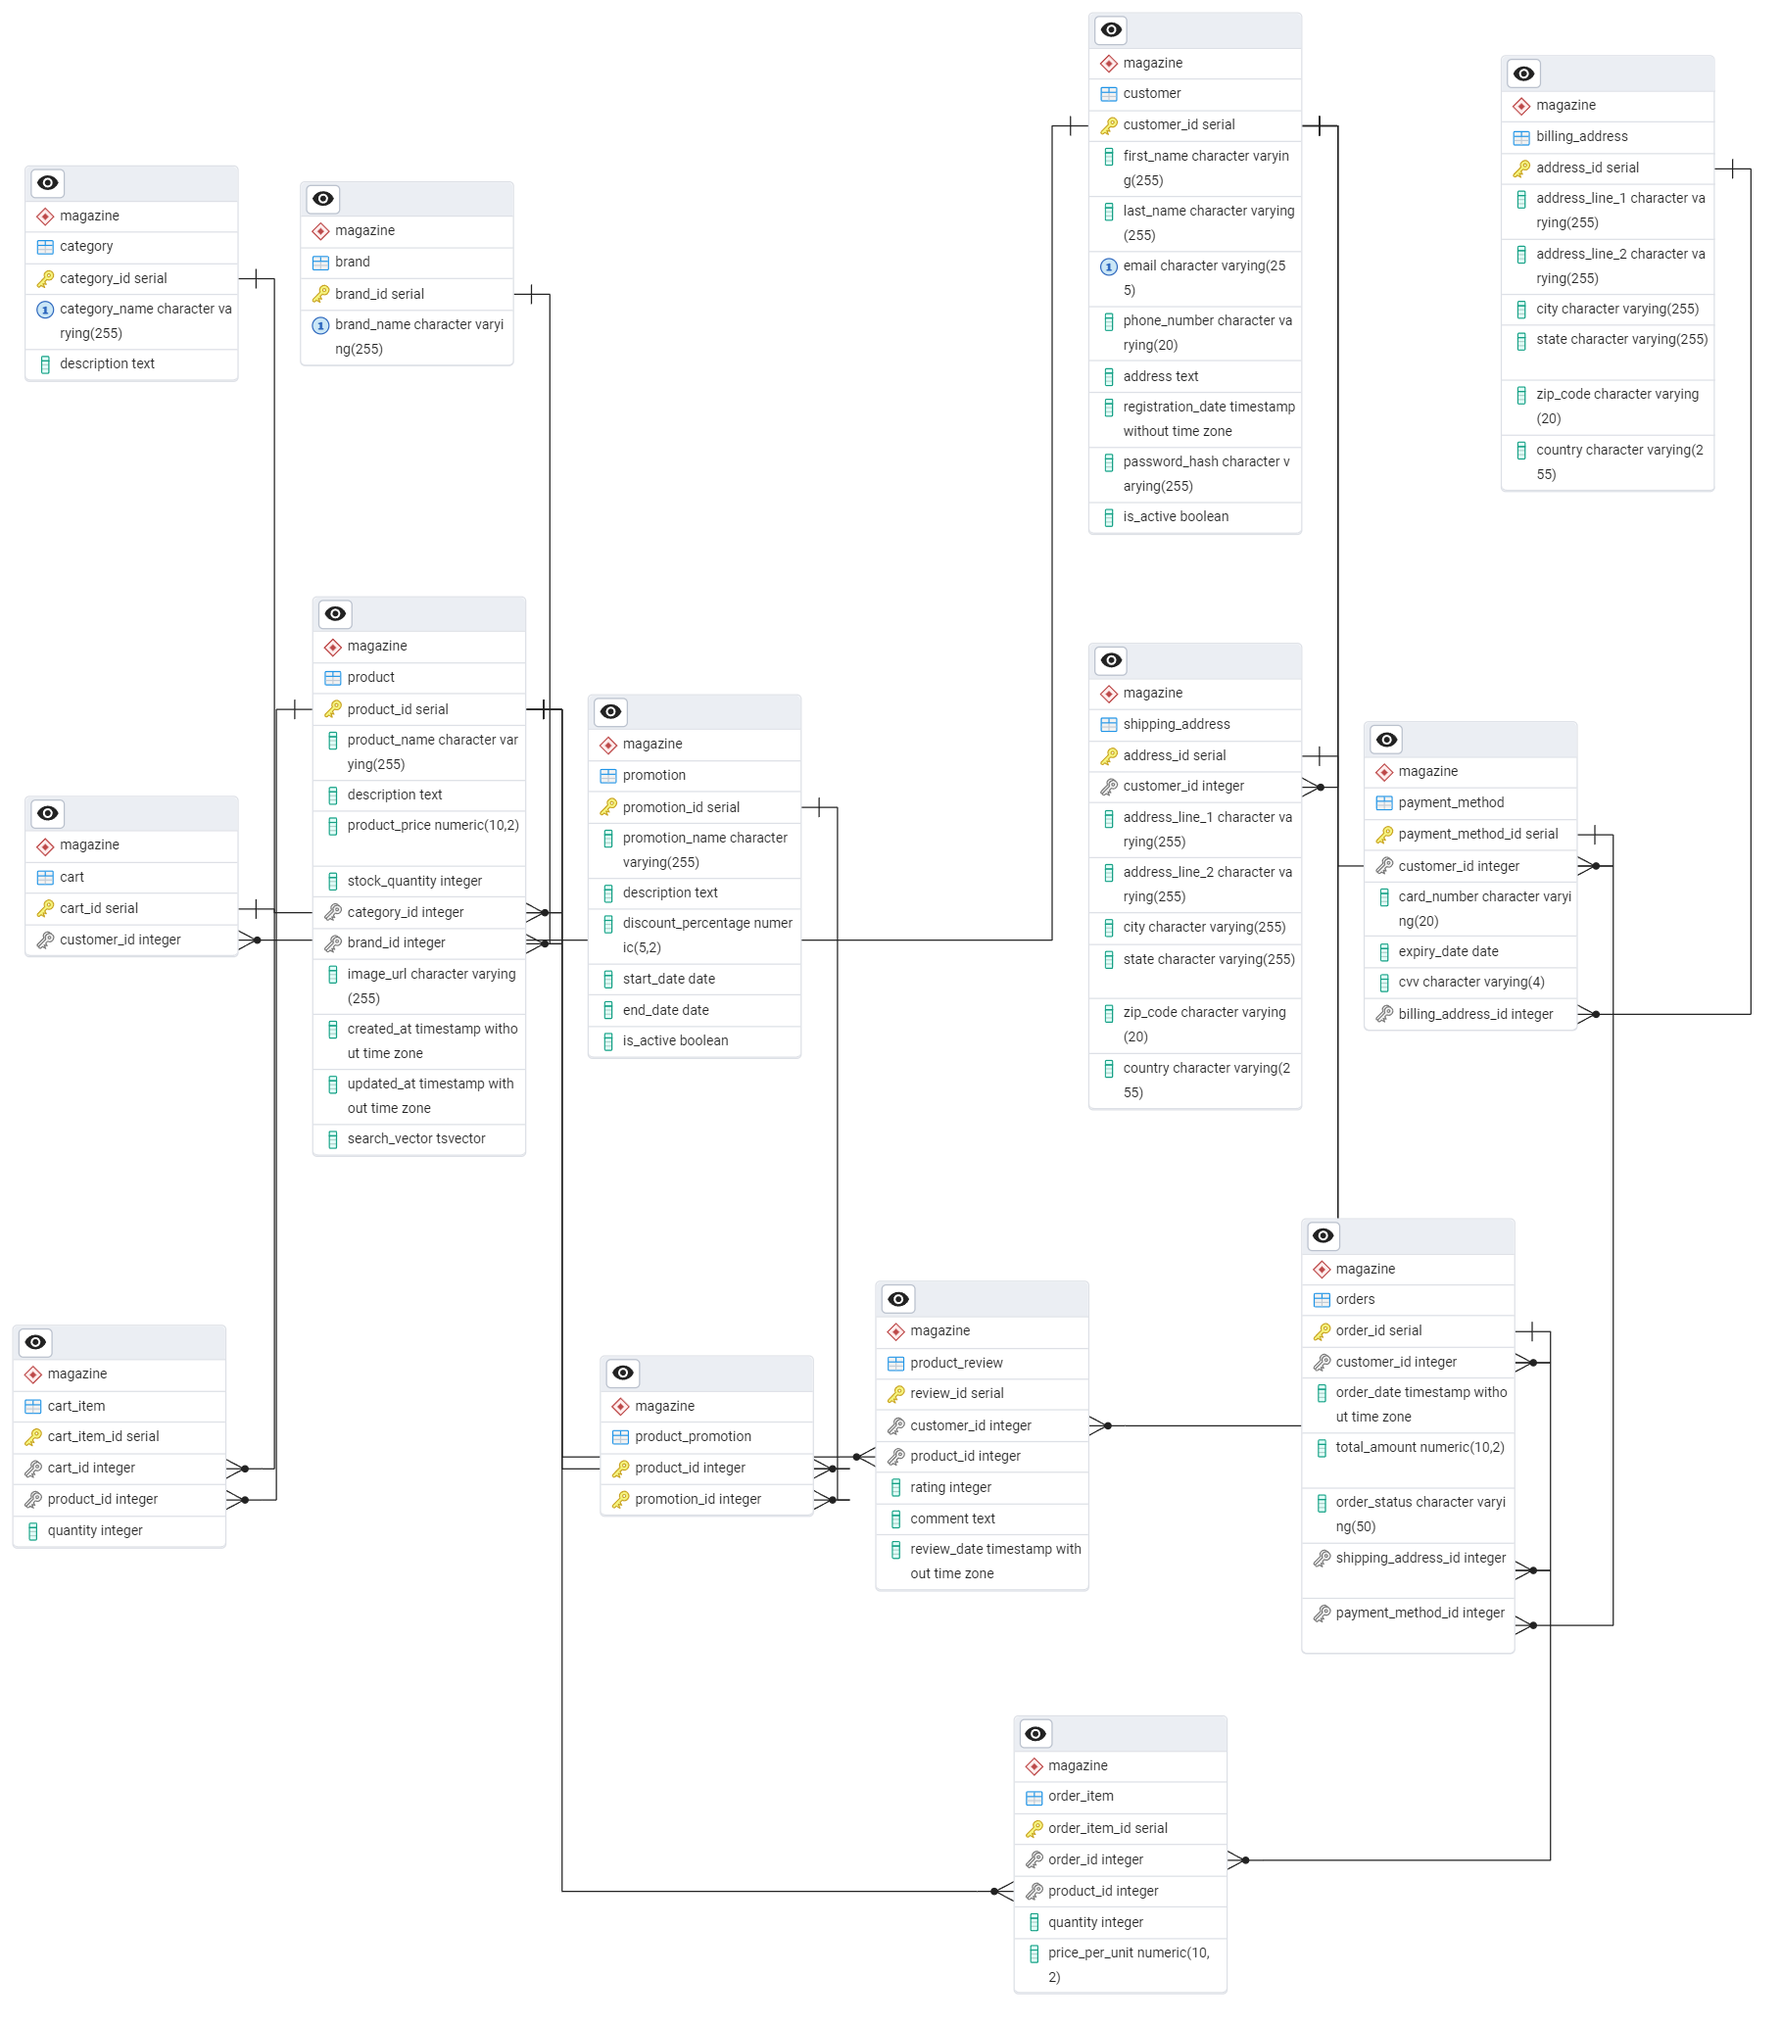
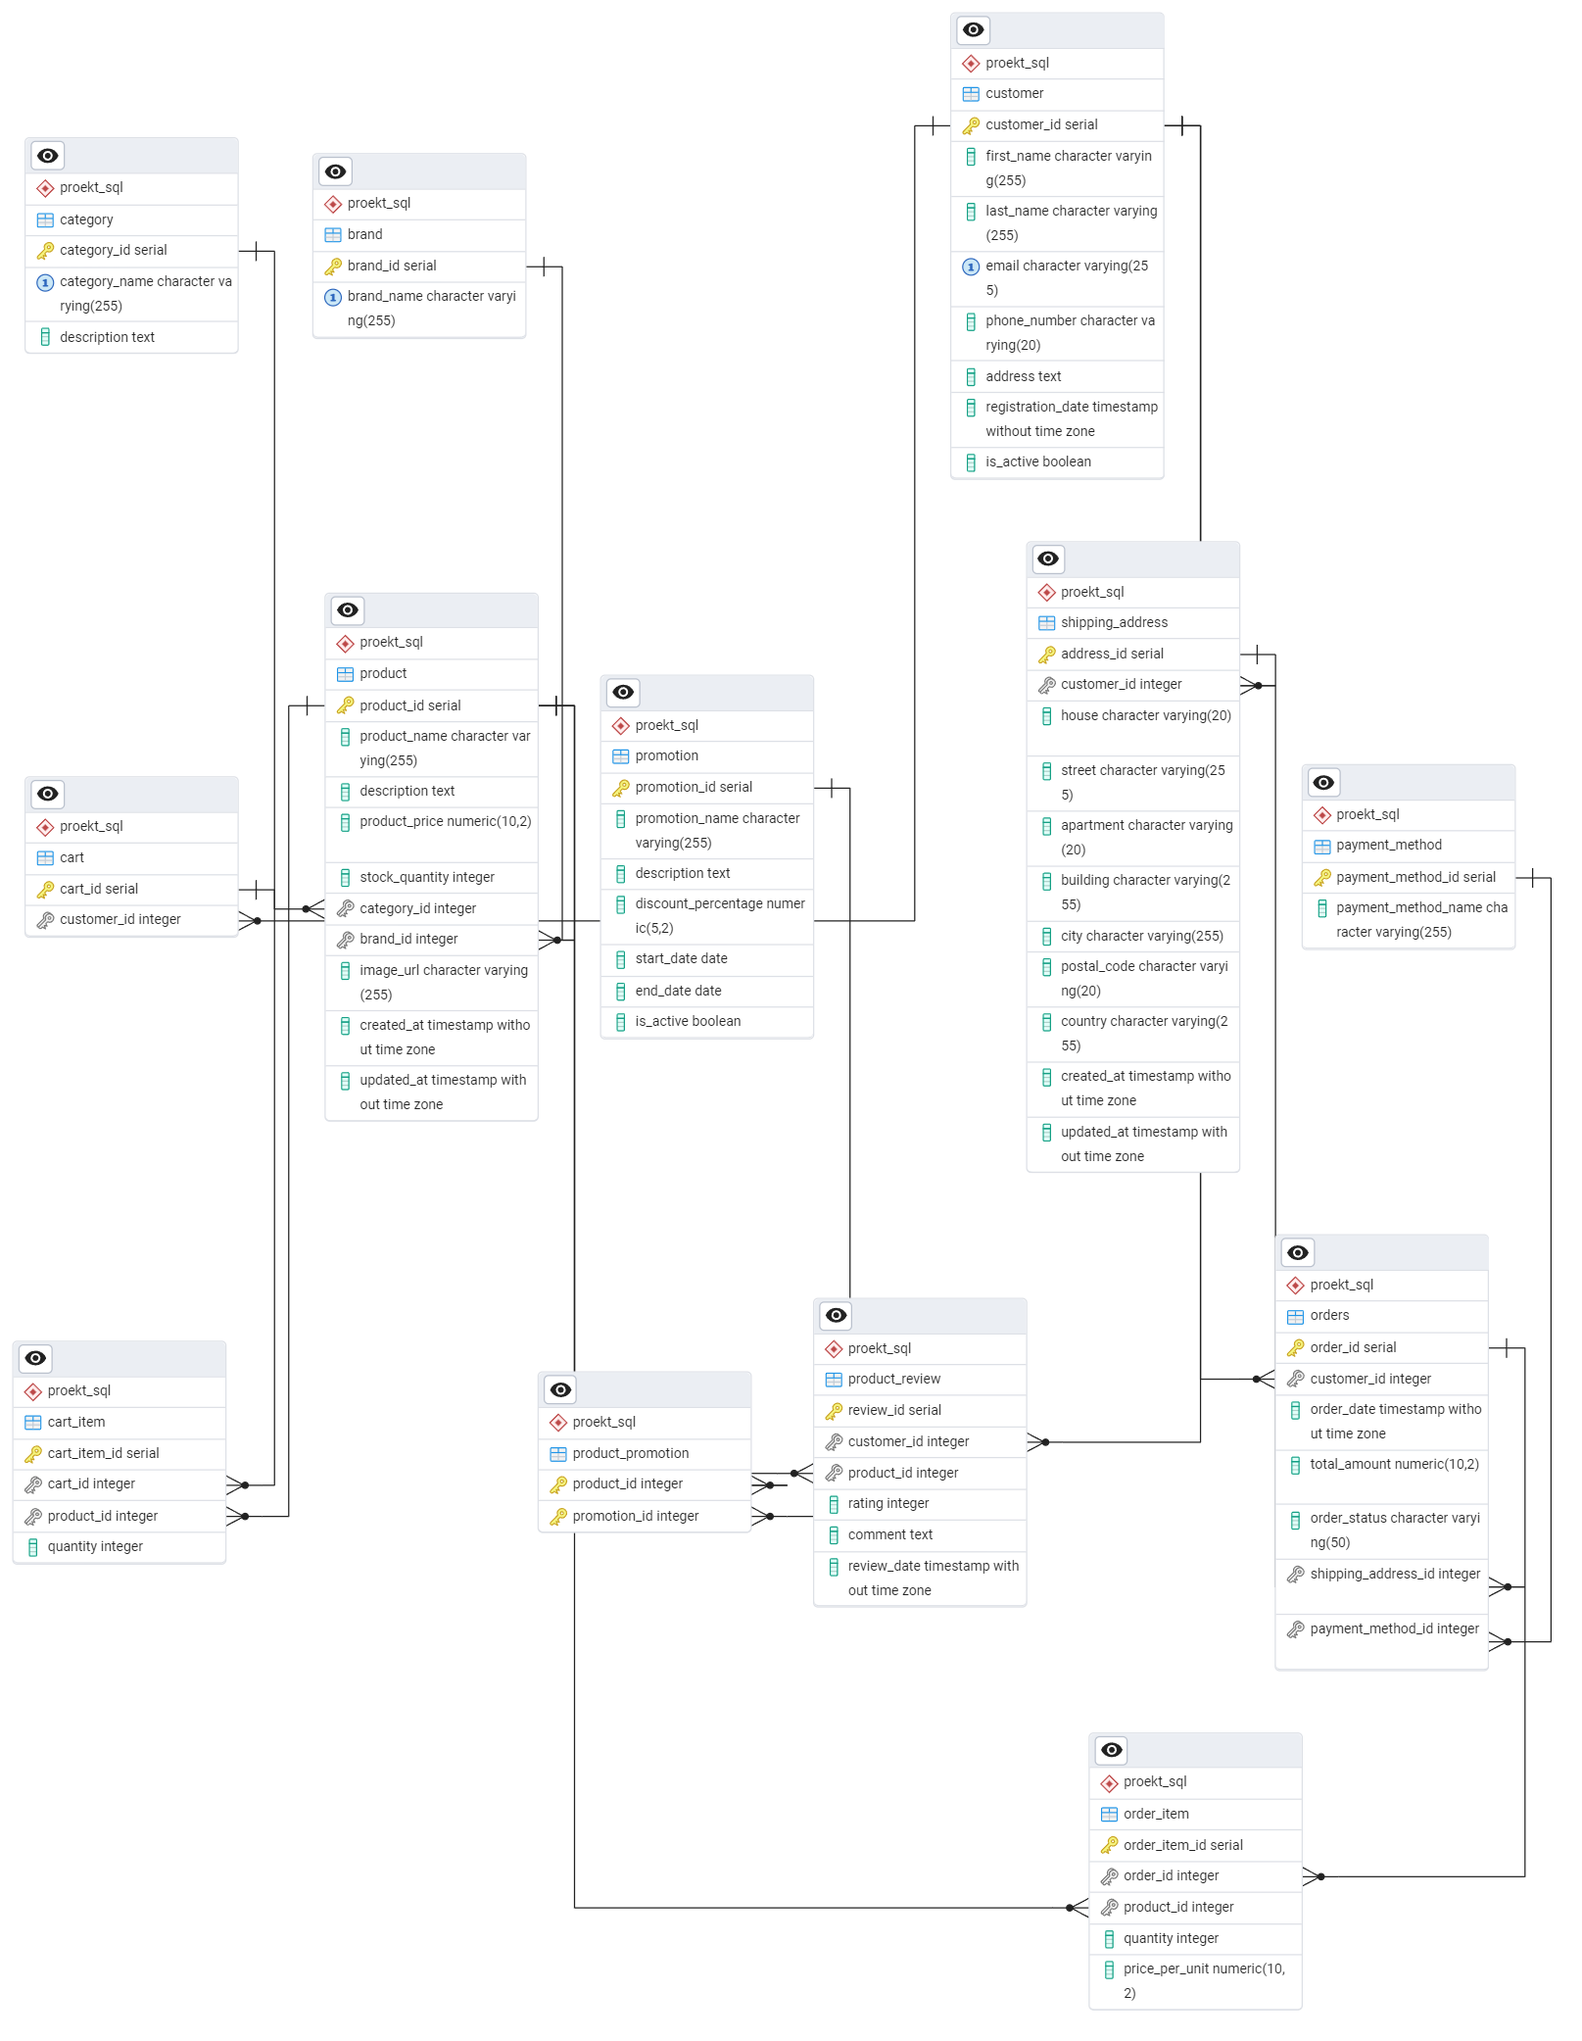
first

diff --git a/Таблицы.md b/Таблицы.md
@@ -5,15 +5,14 @@
 3. [Таблица category](Table/category.md)
 4. [Таблица product](Table/product.md)
 5. [Таблица shipping_address](Table/shipping_address.md)
-6. [Таблица billing_address](Table/billing_address.md)
-7. [Таблица payment_method](Table/payment_method.md)
-8. [Таблица orders](Table/orders.md)
-9. [Таблица order_item](Table/order_item.md)
-10. [Таблица cart](Table/cart.md)
-11. [Таблица cart_item](Table/cart_item.md)
-12. [Таблица product_review](Table/product_review.md)
-13. [Таблица promotion](Table/promotion.md)
-14. [Таблица product_promotion](Table/product_promotion.md)
+6. [Таблица payment_method](Table/payment_method.md)
+7. [Таблица orders](Table/orders.md)
+8. [Таблица order_item](Table/order_item.md)
+9. [Таблица cart](Table/cart.md)
+10. [Таблица cart_item](Table/cart_item.md)
+11. [Таблица product_review](Table/product_review.md)
+12. [Таблица promotion](Table/promotion.md)
+13. [Таблица product_promotion](Table/product_promotion.md)
 
 
 
